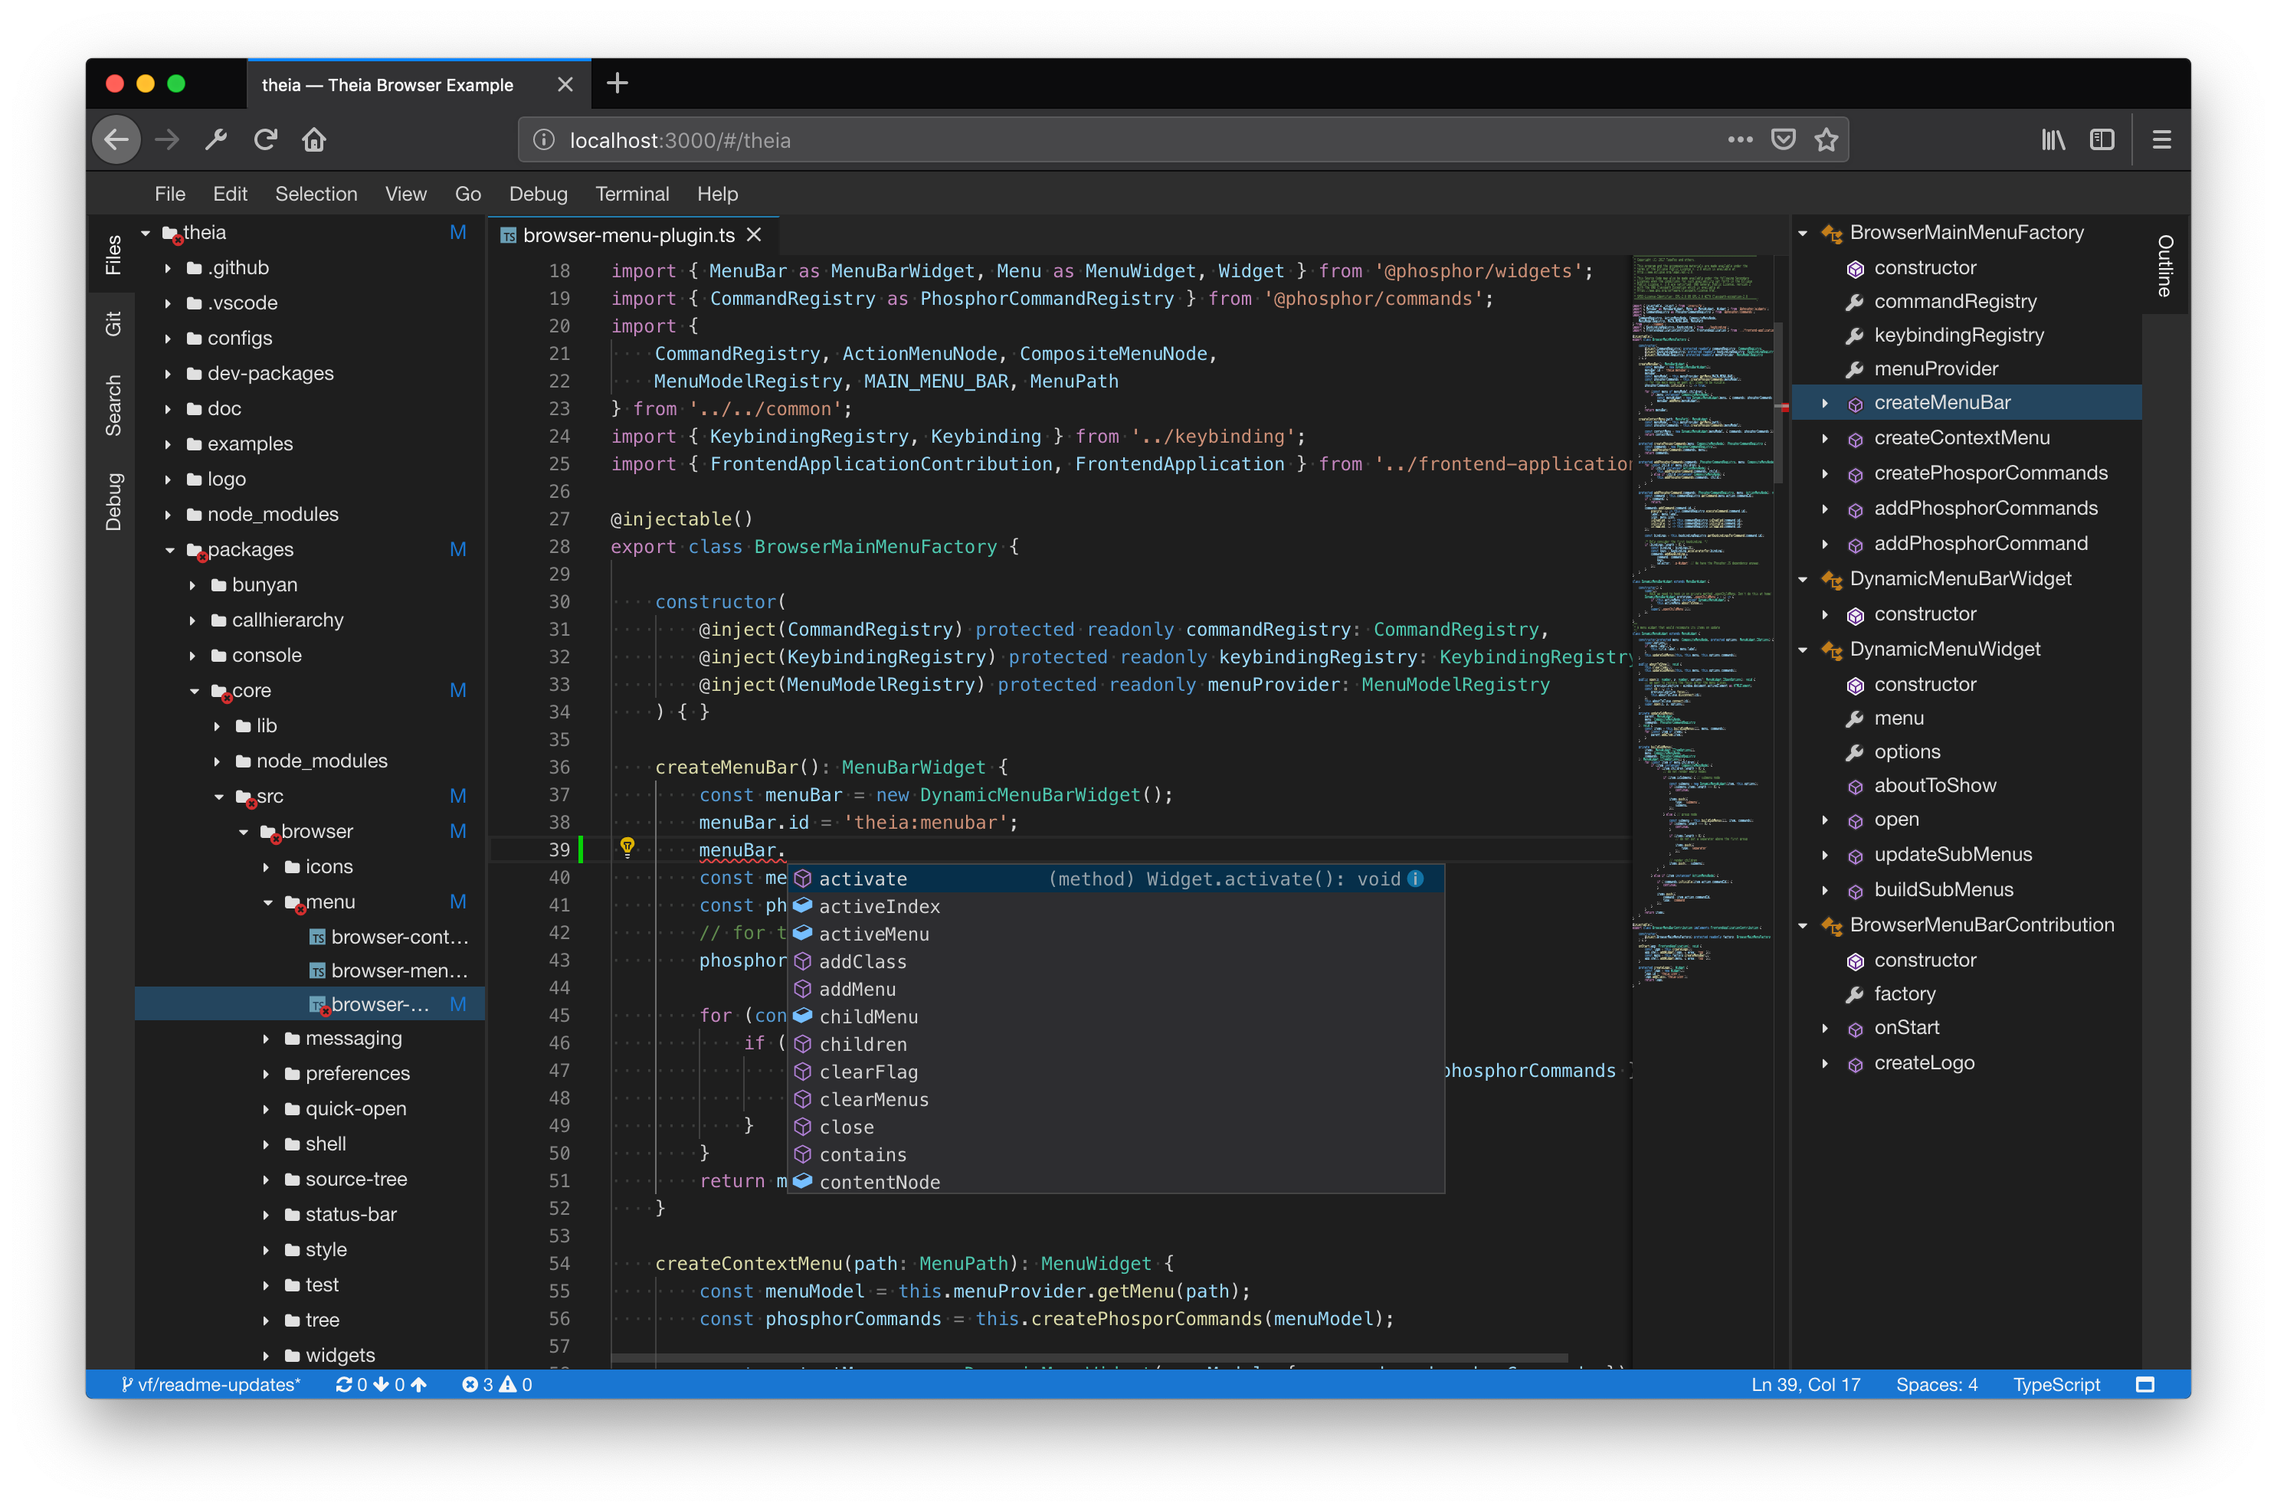
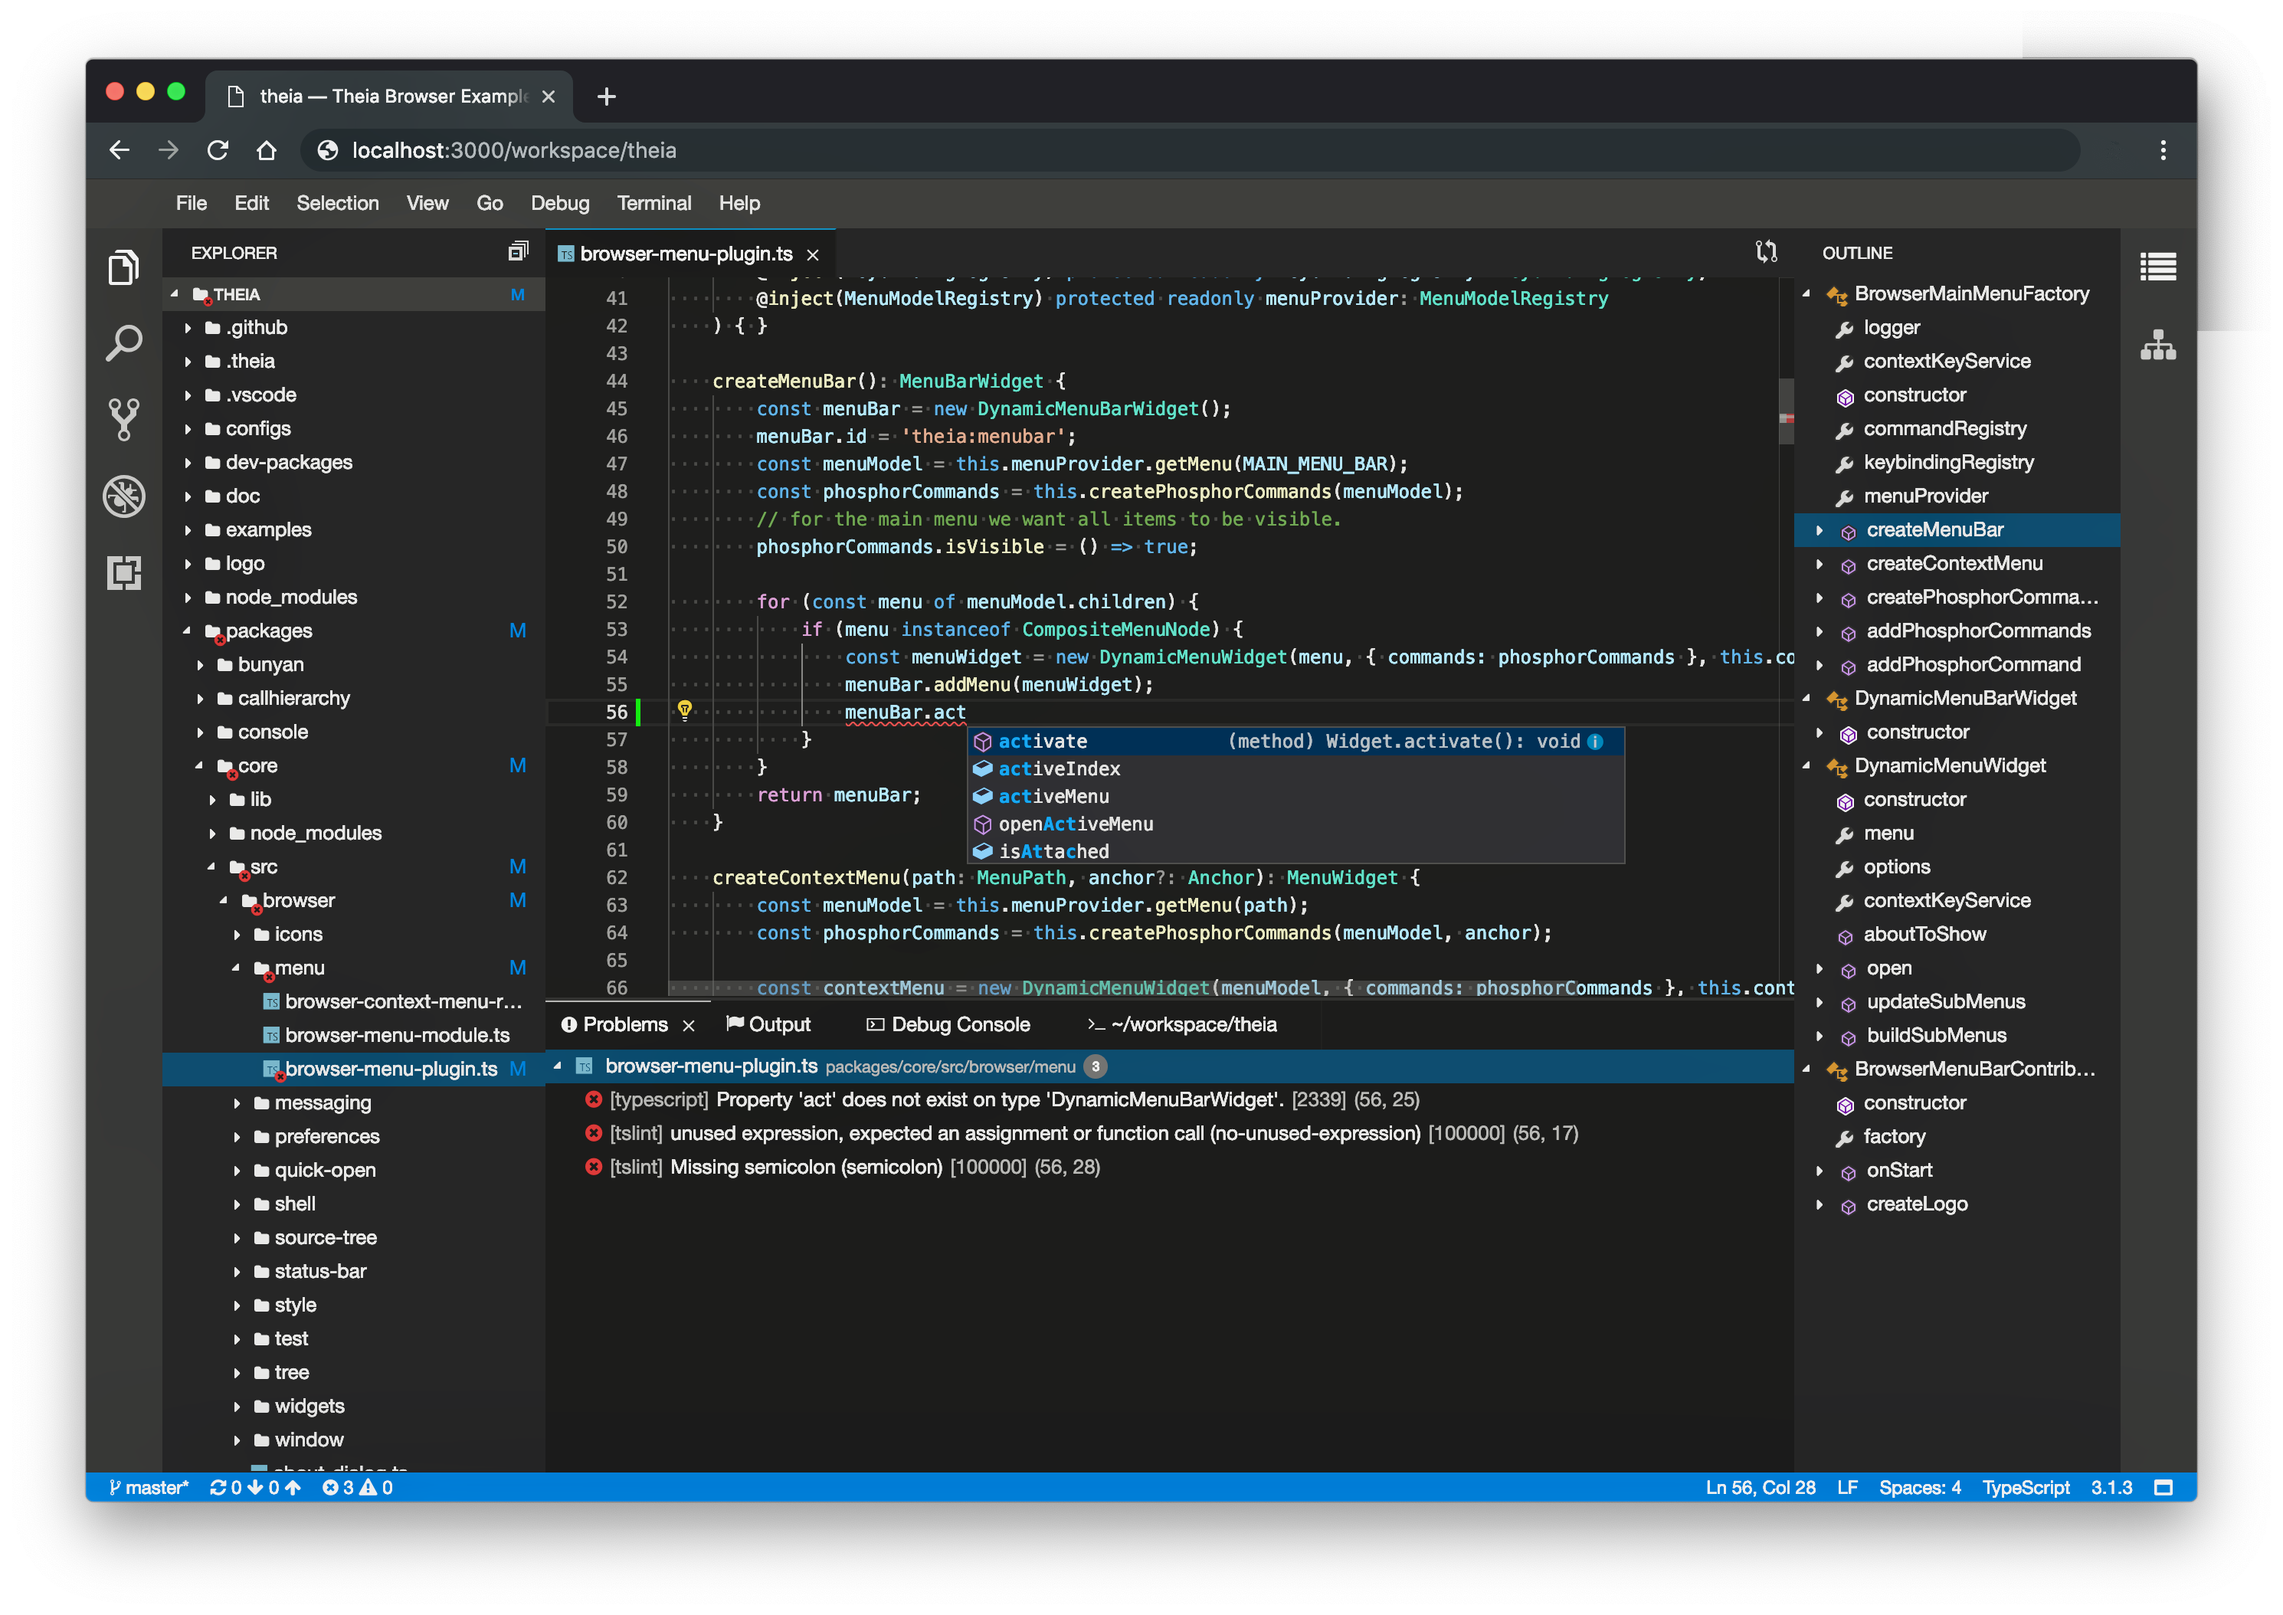
Update readme screenshot
Fixes #4635

- Updated the readme screenshot to reflect the recent changes to the user interface.
- Use the absolute path instead of relative for the screenshot source.

Changed region(s): [[0.031, 0.0309, 0.9906, 0.958]]

diff --git a/README.md b/README.md
@@ -22,7 +22,7 @@
 
 <div style='margin:0 auto;width:80%;'>
 
-![Theia](/doc/images/theia-screenshot.png)
+![Theia](https://raw.githubusercontent.com/theia-ide/theia/master/doc/images/theia-screenshot.png)
 
 </div>
 
@@ -78,9 +78,9 @@ Read below how to engage with Theia community:
  - __Debugging__
 
    A visual debugger leveraging the Debug Server Protocol defined by the VS Code team.
-   
+
  - __Plug-in System__
- 
+
    A plug-in system supporting VS Code extensions.
 
  - __Workbench Improvements__
@@ -92,7 +92,7 @@ Read below how to engage with Theia community:
    Integration with testing frameworks, based on a Test Adapter Protocol.
 
  - __Robustness and Improved UX__
- 
+
    We will further work on simplifying Theia and its UI / UX, improve the performance and keep working on bug reports that are rolling in.
 
  - __More__
